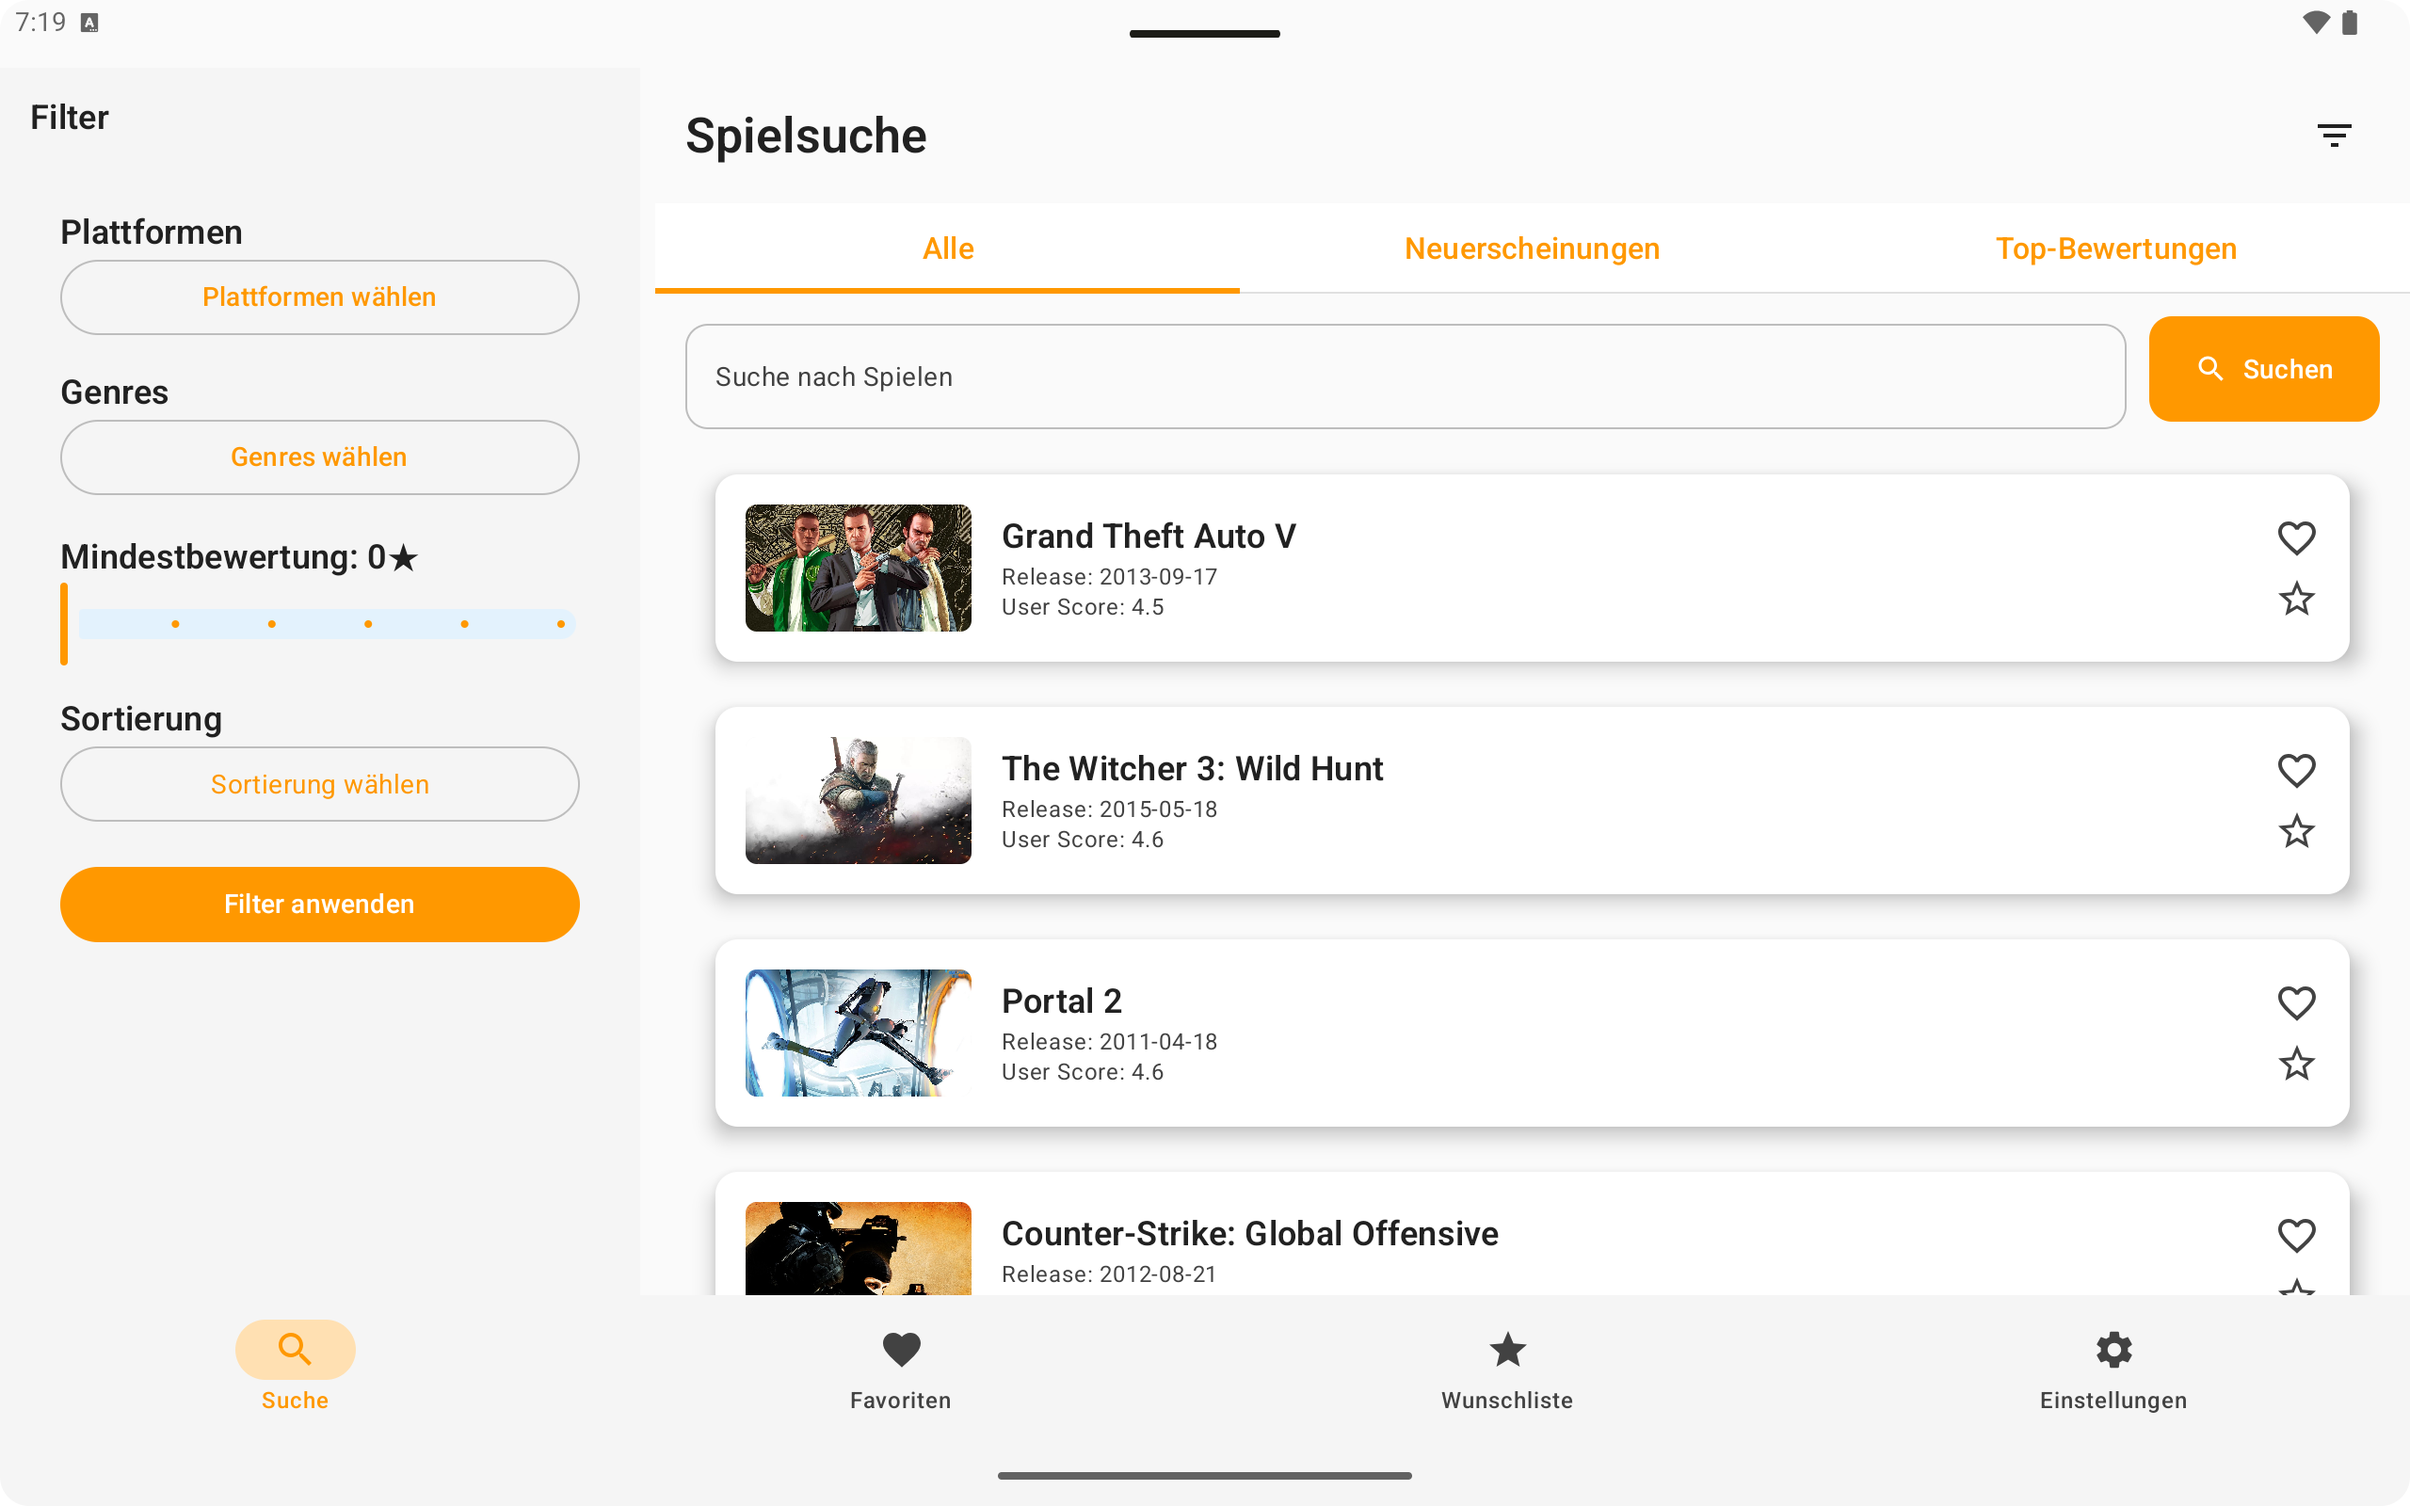
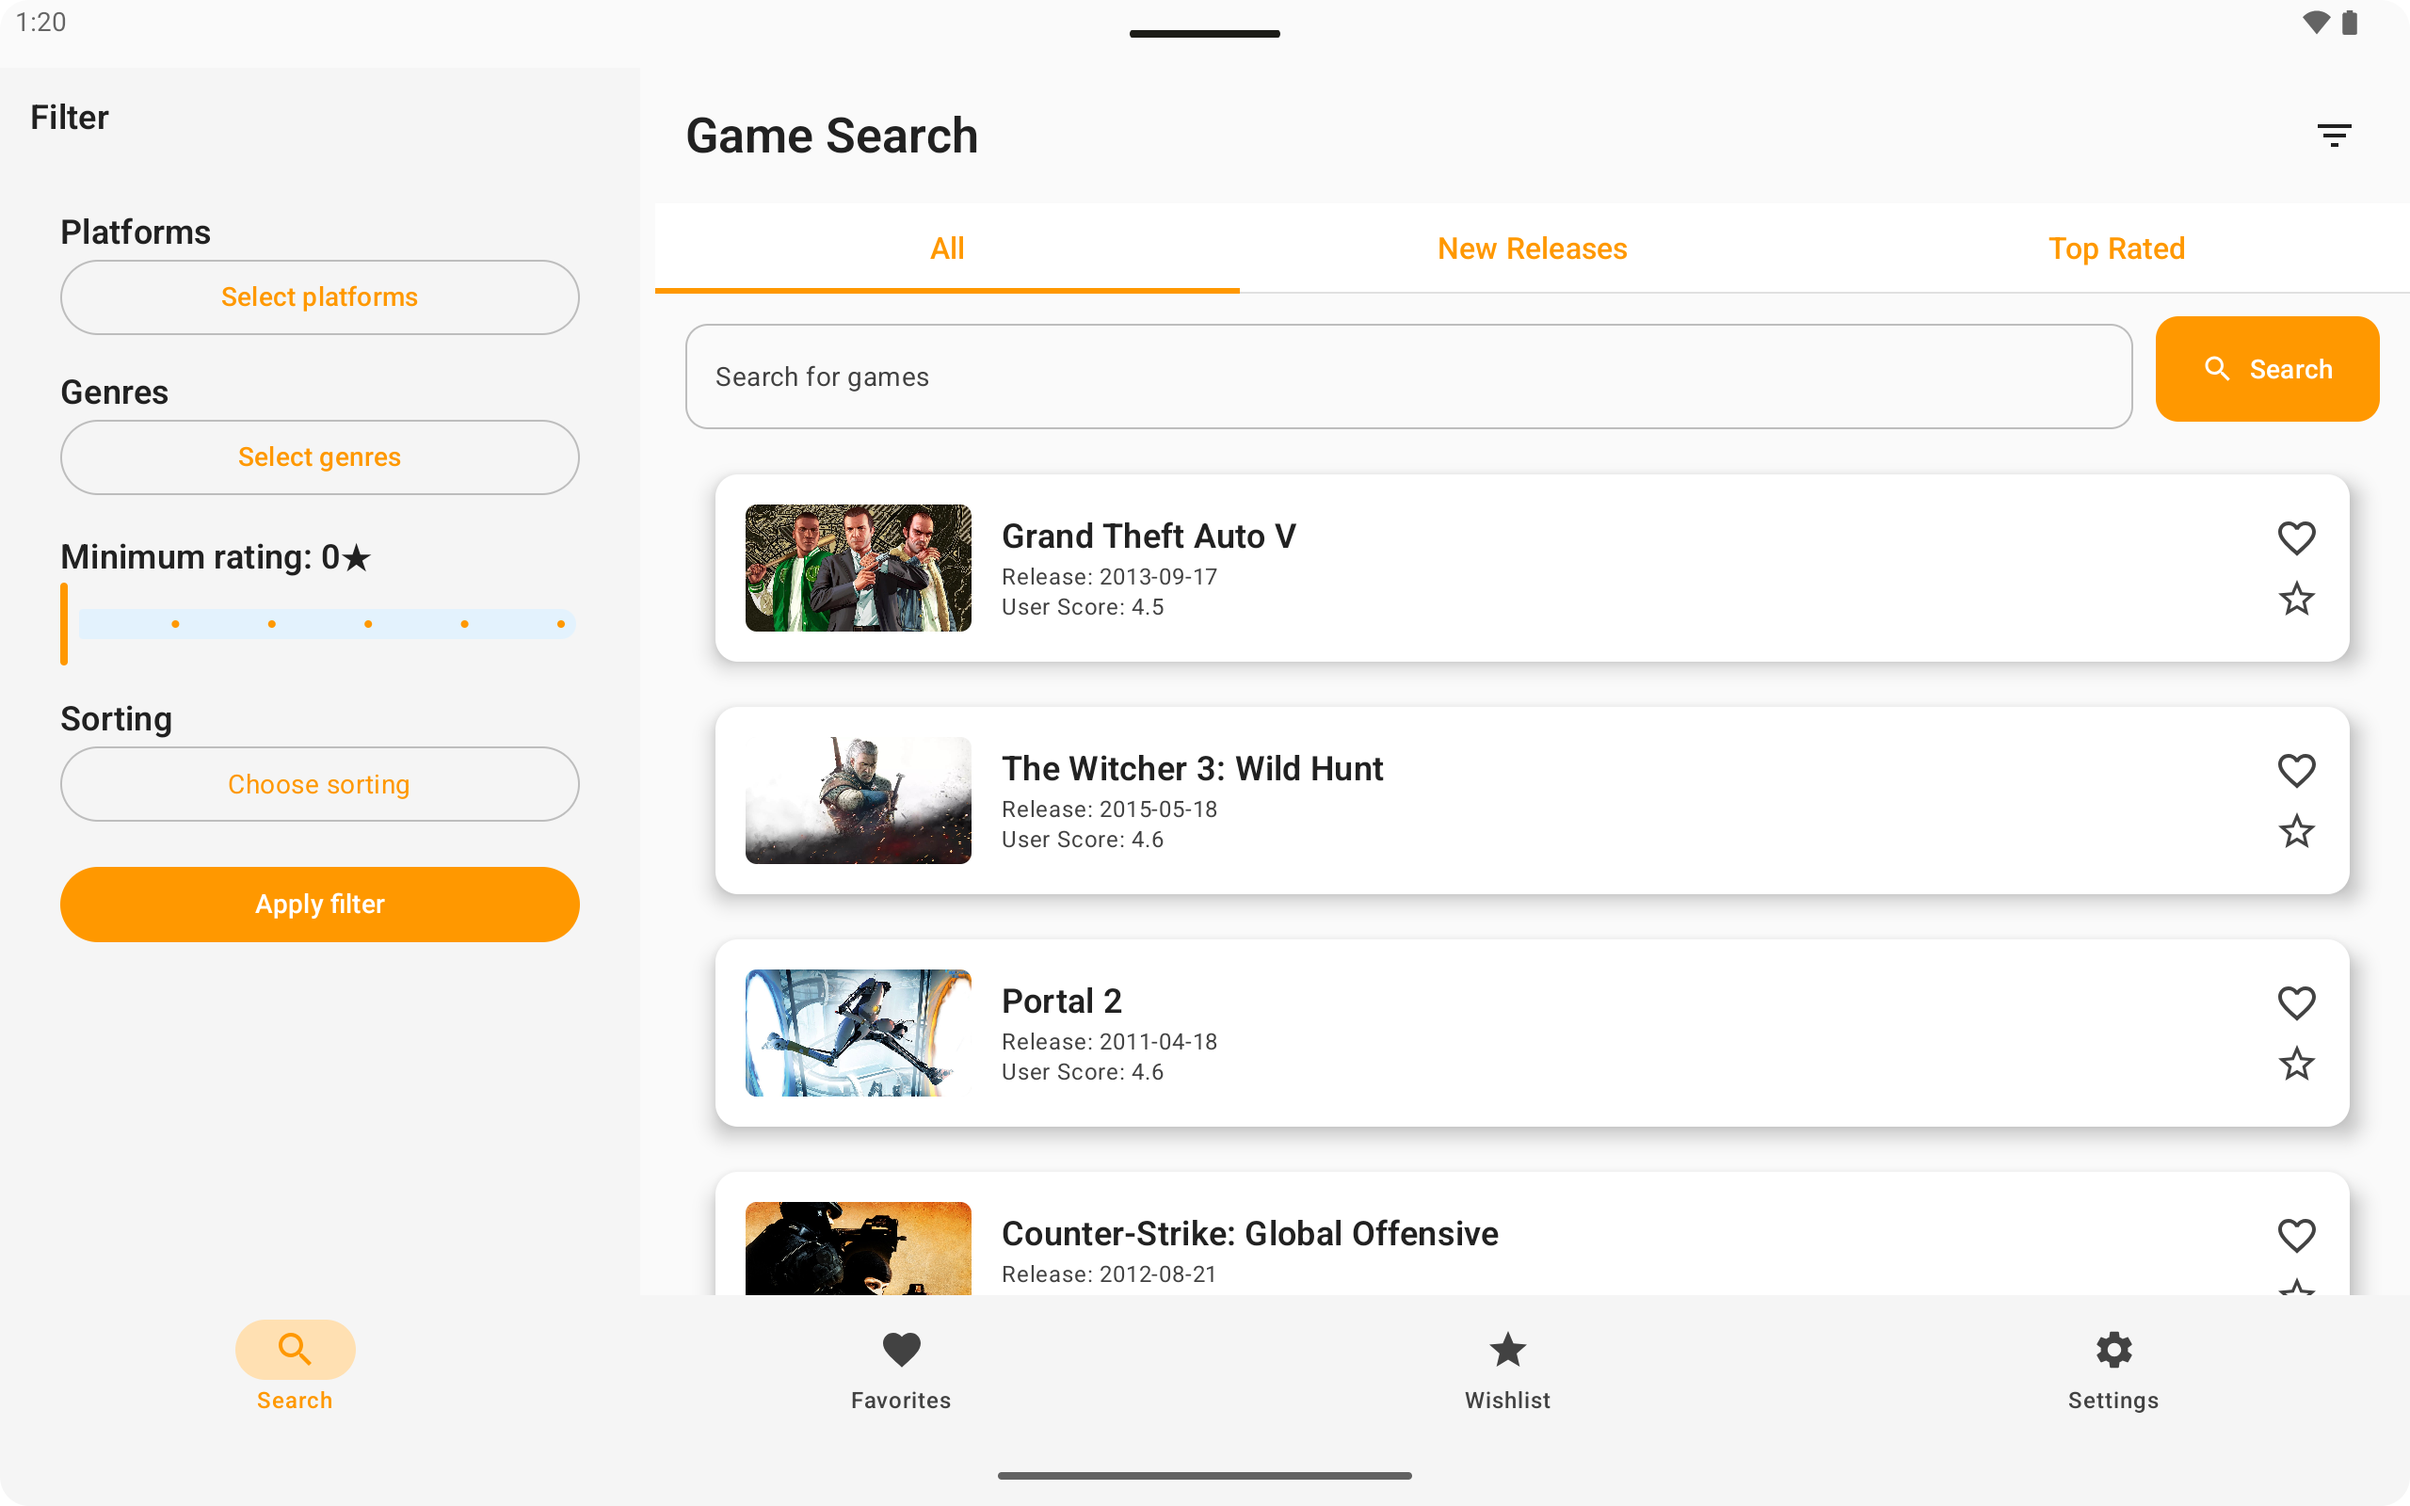
Refactor: Update UI text and translations for clarity and consistency
This commit updates various string resources across English and German localizations to improve clarity, consistency, and correctness. It also includes a minor UI text change in the RewardedAdButton.

**Key Changes:**

*   **`RewardedAdButton.kt`:**
    *   Changed debug text from "Werbung: $adsEnabledText" to "Export: $adsEnabledText".
*   **String Resources (`strings.xml`, `values-de-rDE/strings.xml`, `values-en-rGB/strings.xml`, `values-en/strings.xml`):**
    *   Numerous string updates for improved translations and user experience. Examples include:
        *   "Aktiviert" (Ads enabled) changed to "Aktivieren" (Enable ads) in German.
        *   "ok" changed to "einverstanden" (agree) in German and "accept" in English.
        *   Standardized capitalization and phrasing for terms like "Dark Mode", "System language", "Favorites", etc.
        *   Refined descriptions for features like notifications, cache management, and privacy policy sections.
        *   Updated error messages for better clarity (e.g., "An error occurred" instead of "Error occurred").
        *   Changed "favorites_export.json" filename for exported favorites.
        *   Numerous other minor wording adjustments for better flow and accuracy in both English and German.
*   **Image Updates:**
    *   Replaced screenshot images (`screen1.png` through `screen8.png`) in the `img/` directory.

diff --git a/app/src/main/java/de/syntax_institut/androidabschlussprojekt/ui/components/common/RewardedAdButton.kt b/app/src/main/java/de/syntax_institut/androidabschlussprojekt/ui/components/common/RewardedAdButton.kt
@@ -191,7 +191,7 @@ fun RewardedAdButton(
         // Debug info for ad status
         if (adsEnabled) {
             Text(
-                text = "Werbung: $adsEnabledText",
+                text = "Export: $adsEnabledText",
                 style = MaterialTheme.typography.bodySmall,
                 color = MaterialTheme.colorScheme.onSurfaceVariant,
                 modifier = Modifier.padding(top = 4.dp)
